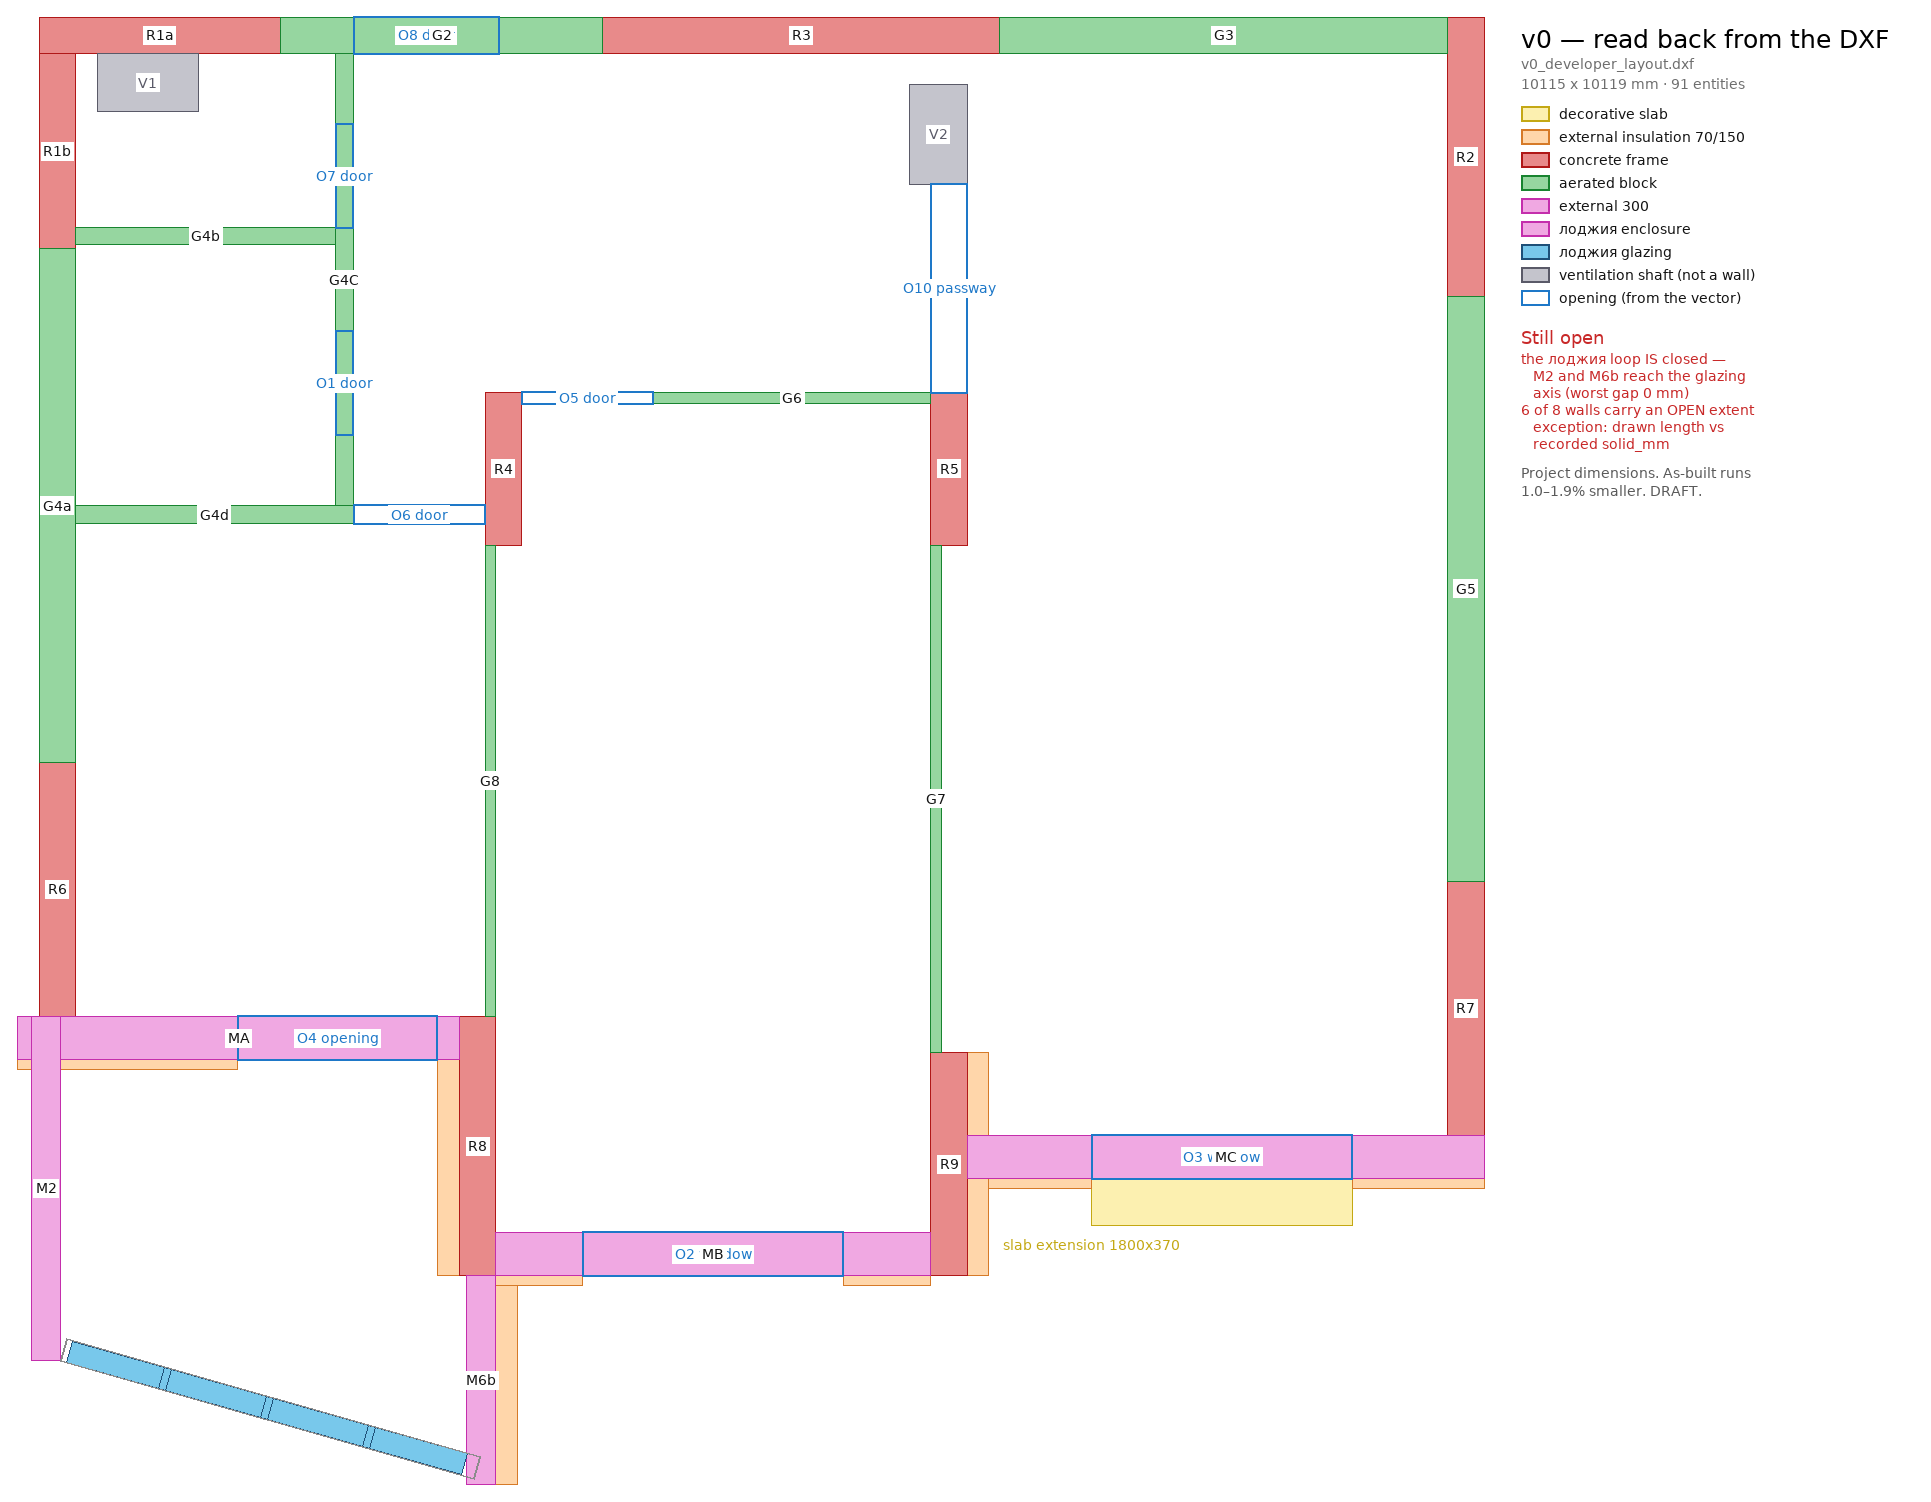
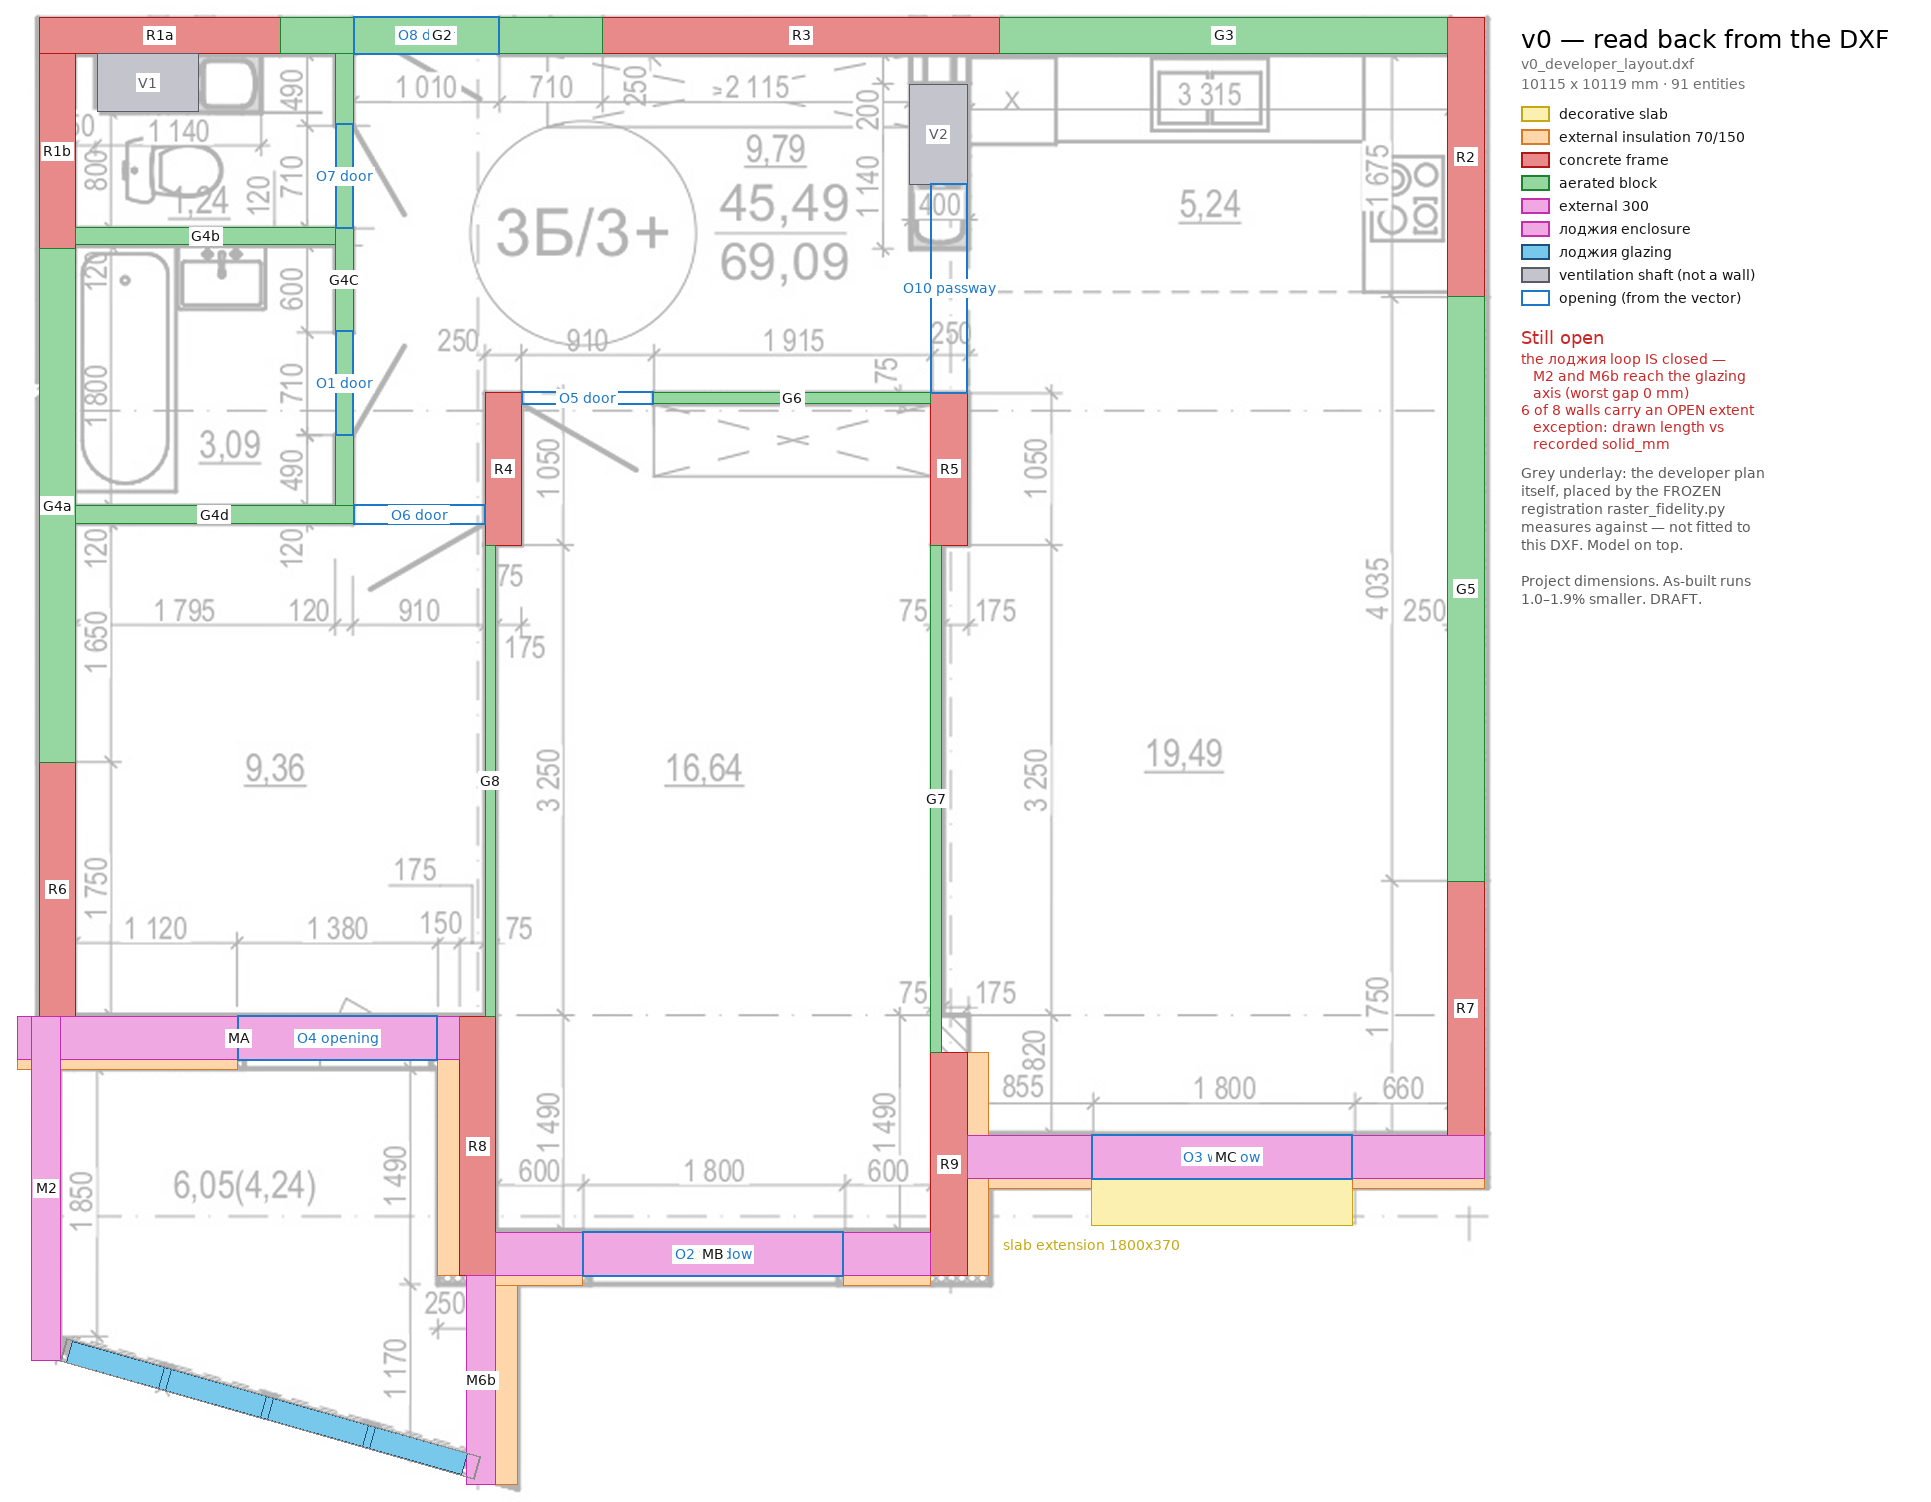
Draw the readback ON the developer's plan, not beside it
Owner: "I want the base image like a raster image as a basis to show the
difference." A model drawn on a blank sheet can only be checked against itself.

The underlay uses the FROZEN, HASHED registration raster_fidelity.py measures
against - fitted between the PDF's hatched wall faces and the raster's own wall
lines, with the DXF deliberately NOT consulted. Fitting a fresh transform here
would rebuild the circularity CODEX rejected in overlay_dxf_on_raster.py: a
picture that makes the model look right because it was aligned to the model.
Missing evidence falls back to a white ground rather than an unregistered
overlay, which would be worse than none.

It immediately earned its place: MA's +225.1 open exception is now VISIBLE, its
bar running past the plan's external corner at the лоджия. The ledger has always
carried the number; the drawing never showed it.

It also made the eye ask about V2, so I checked rather than looked. The detailed
plan draws the shaft 1140 long - the 10-and-up variant, two sections - and our
685 covers part of it. Ink density cannot discriminate: 0.559 ours, 0.561 the
opposite anchor, 0.541 centred, because the area is dense with channel linework
and dimension text (a solid wall measures 0.368 the same way). The CHAINS
discriminate decisively - ours gives 214.9 against a printed 200 and O10 1440.0
against a recorded 1455, both inside 15 mm; the opposite anchor gives +299.9 and
[…]

diff --git a/tools/layout/render_dxf.py b/tools/layout/render_dxf.py
@@ -81,6 +81,51 @@ def font(size):
     return ImageFont.load_default()
 
 
+
+REGISTRATION = os.path.join(REPO, '_Drawings', 'evidence',
+                            'v0_raster_registration.json')
+PLAN_RASTER = os.path.join(REPO, '_Inbox', '_Visual_Drop',
+                           'fllor_plan_detailed.jpeg')
+
+
+def plan_underlay(size, x0, y0, PAD, S, H):
+    """The developer's own drawing, warped under the model at the SAME scale.
+
+    Owner, 2026-09-15: *"I want the base image like a raster image as a basis
+    to show the difference."* A model drawn on a blank sheet can only be
+    checked against itself; drawn over the plan it came from, a wall in the
+    wrong place is visible at a glance.
+
+    !! The mm->px mapping is the FROZEN, HASHED registration that
+    raster_fidelity.py measures against - `_Drawings/evidence/
+    v0_raster_registration.json`, fitted between the PDF's hatched wall faces
+    and the raster's own wall lines, with the DXF deliberately not consulted.
+    Fitting a fresh transform here would reintroduce exactly the circularity
+    CODEX rejected in the old overlay_dxf_on_raster.py: a picture that makes
+    the model look right because it was aligned TO the model. If the frozen
+    evidence is missing or its raster has changed, this returns None and the
+    drawing falls back to a white ground rather than showing an unregistered
+    overlay, which would be worse than none.
+    """
+    if not (os.path.exists(REGISTRATION) and os.path.exists(PLAN_RASTER)):
+        return None, 'frozen registration or plan raster not found'
+    reg = json.load(io.open(REGISTRATION, encoding='utf-8'))
+    sx, ox = reg['sx'], reg['ox']
+    sy, oy = reg['sy'], reg['oy']
+    src = Image.open(PLAN_RASTER).convert('L')
+    # output (X, Y) -> source (u, v), both affine and axis-aligned
+    a = sx / S
+    c = (x0 - PAD) * sx + ox
+    e = -sy / S
+    f = (H / S + y0 - PAD) * sy + oy
+    warped = src.transform(size, Image.AFFINE, (a, 0.0, c, 0.0, e, f),
+                           resample=Image.BICUBIC, fillcolor=255)
+    # Pale, so the model reads ON TOP of it rather than competing with it.
+    faded = Image.eval(warped, lambda v: int(255 - (255 - v) * 0.30))
+    return faded.convert('RGB'), 'mm_per_px %.4f, fit %s' % (
+        reg['mm_per_px'], reg.get('fit', '?'))
+
+
 def main():
     utf8_console()
     ap = argparse.ArgumentParser()
@@ -123,6 +168,14 @@ def main():
     W = int((x1 - x0 + 2 * PAD) * S) + LEG
     H = int((y1 - y0 + 2 * PAD) * S)
     img = Image.new('RGB', (W, H), (255, 255, 255))
+    under, why = plan_underlay((W, H), x0, y0, PAD, S, H)
+    if under is not None:
+        img.paste(under, (0, 0))
+        # the legend column stays white - the plan does not extend under it
+        ImageDraw.Draw(img).rectangle([W - LEG, 0, W, H], fill=(255, 255, 255))
+        print('  underlay: the developer plan, frozen registration (%s)' % why)
+    else:
+        print('  underlay: NONE - %s' % why)
     dr = ImageDraw.Draw(img)
     f_s, f_m, f_b = font(14), font(18), font(25)
 
@@ -219,7 +272,13 @@ def main():
     # bytes of the delivered PNG.
     v0.write_sidecar(summary, os.path.splitext(args.out)[0] + '.json')
     y += 12
-    for line in ('Project dimensions. As-built runs',
+    for line in ('Grey underlay: the developer plan',
+                 'itself, placed by the FROZEN',
+                 'registration raster_fidelity.py',
+                 'measures against — not fitted to',
+                 'this DXF. Model on top.',
+                 '',
+                 'Project dimensions. As-built runs',
                  '1.0–1.9% smaller. DRAFT.'):
         dr.text((lx, y), line, fill=(90, 90, 90), font=f_s)
         y += 18

diff --git a/00_Master/V0_Geometry_Status.md b/00_Master/V0_Geometry_Status.md
@@ -227,6 +227,38 @@ the drawing. **A checker that cannot run must say that, and must never borrow
 the name of the defect it was hunting.** The same crash was taking down
 `structural_assembly_selftest.py`.
 
+### The review drawing now sits ON the plan
+
+Owner, 2026-09-15: *"I want the base image like a raster image as a basis to
+show the difference."* `v0_dxf_readback.png` now draws the model over the
+developer's own drawing in pale grey, so a wall in the wrong place is visible
+rather than merely measurable.
+
+⚠ **The underlay uses the FROZEN, HASHED registration** that
+`raster_fidelity.py` measures against — fitted between the PDF's hatched wall
+faces and the raster's own wall lines, **with the DXF deliberately not
+consulted**. Fitting a fresh transform here would rebuild exactly the
+circularity CODEX rejected in the old `overlay_dxf_on_raster.py`: a picture that
+makes the model look right because it was aligned *to* the model. If the frozen
+evidence is missing the drawing falls back to a white ground rather than showing
+an unregistered overlay.
+
+**What the picture makes visible that a number did not:** MA's **+225.1** open
+exception is now something you can see — its magenta bar runs past the plan's
+external corner at the лоджия. The exception ledger has always said so; the
+drawing never showed it.
+
+**V2's anchor, checked because the picture raised it.** On the detailed plan the
+shaft is drawn 1140 long — the floors-10-and-up variant with two sections — and
+our 685 covers only part of it, which makes the eye ask which part. Ink density
+cannot answer: 0.559 for our placement against 0.561 for the opposite anchor and
+0.541 centred, because the whole area is dense with channel linework and
+dimension text (a solid wall measures 0.368 by the same test). **The chains
+answer decisively.** Anchored on S11's south face, extending north: the gap to
+the top wall is 214.9 against a printed 200, and O10 is 1440.0 against a
+recorded 1455 — both within 15 mm. Anchored the other way: **+299.9 and −300.0**.
+Two independent chains, both off by exactly 300 for the alternative.
+
 ## Still missing
 
 - **The лоджия's M2 / M6b are exported as axis-aligned bars** — the real
